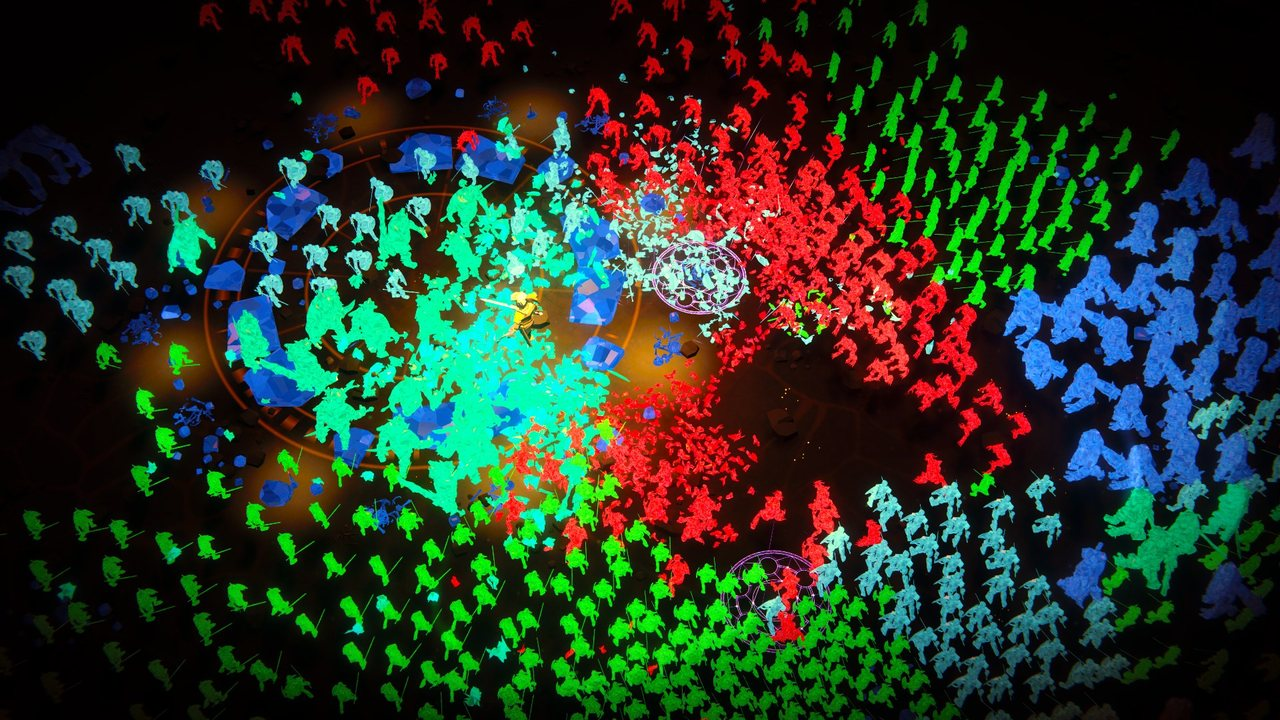
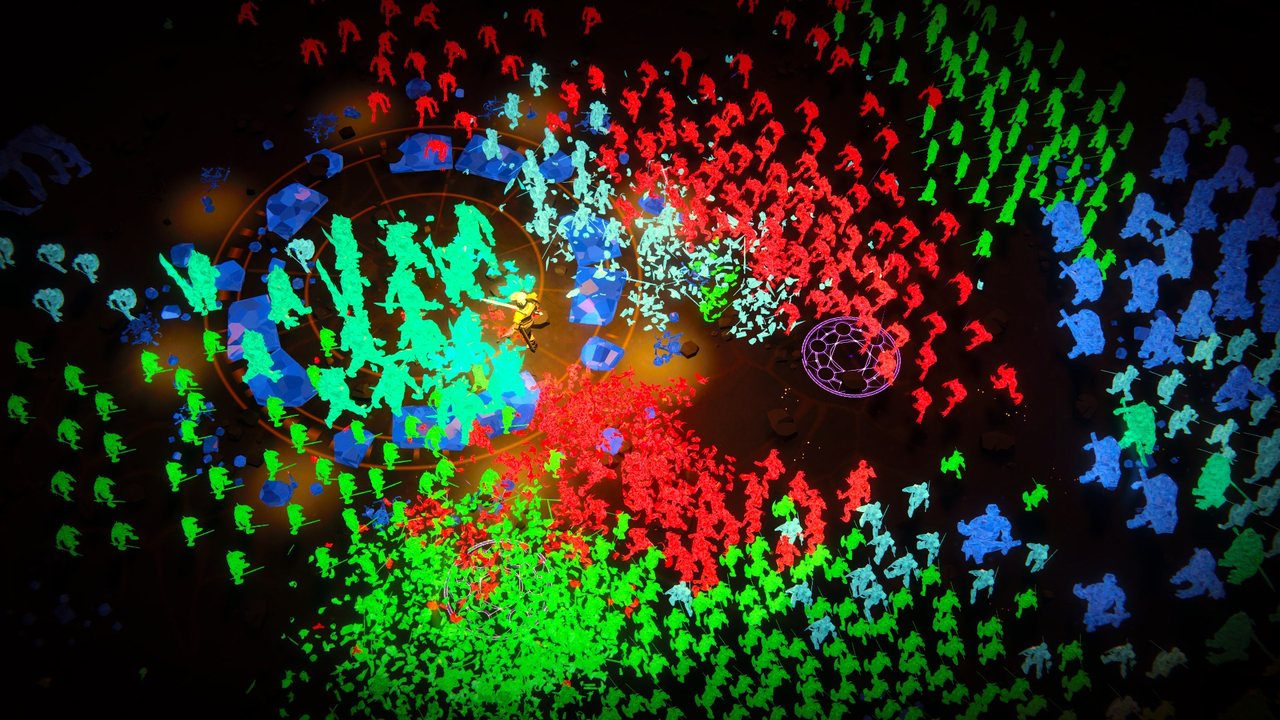
fix(demo3d): the crystal cut passes its checks under Unity's runtime too (shot 3's lava converge on three streams), and the style tune tests take glow as a key (ps-vr7)

diff --git a/demo3d/Assets/Demo3D/Tests/EditMode/MonsterStyleTests.cs b/demo3d/Assets/Demo3D/Tests/EditMode/MonsterStyleTests.cs
@@ -46,7 +46,9 @@ namespace Demo3D.Tests
             Assert.That(tuned.Post.Value.exposure, Is.EqualTo(0.8f));
             Assert.That(tuned.Post.Value.neutral, Is.True);
             Assert.That(tuned.Post.Value.bloom, Is.EqualTo(plain.Post.Value.bloom), "untuned values stay");
-            Assert.Throws<ArgumentException>(() => MonsterStyle.FromArgs(new[] { "--monster-style", "fire", "--style-tune", "glow=2" }));
+            Assert.That(plain.Glow, Is.EqualTo(0f), "no inner glow unless tuned");
+            Assert.That(MonsterStyle.FromArgs(new[] { "--monster-style", "crystal", "--style-tune", "glow=1.5" }).Glow, Is.EqualTo(1.5f));
+            Assert.Throws<ArgumentException>(() => MonsterStyle.FromArgs(new[] { "--monster-style", "fire", "--style-tune", "shine=2" }));
             Assert.Throws<ArgumentException>(() => MonsterStyle.FromArgs(new[] { "--monster-style", "fire", "--style-tune", "gain=x" }));
             Assert.Throws<ArgumentException>(() => MonsterStyle.FromArgs(new[] { "--style-tune", "gain=0.5" }), "baseline has nothing to tune");
         }

diff --git a/demo3d/Assets/Demo3D/Tests/EditMode/StructureStyleTests.cs b/demo3d/Assets/Demo3D/Tests/EditMode/StructureStyleTests.cs
@@ -94,7 +94,8 @@ namespace Demo3D.Tests
             Assert.That(tuned.PostOver(PostLook.Stylized()).Value.exposure, Is.EqualTo(0.4f));
             Assert.That(horde.Gain("demon"), Is.EqualTo(1f), "the horde keeps its values");
             Assert.Throws<ArgumentException>(() => StructureStyle.FromArgs(new[] { "--structure-tune", "gain=0.3" }, horde), "baseline has nothing to tune");
-            Assert.Throws<ArgumentException>(() => StructureStyle.FromArgs(new[] { "--structure-style", "fire", "--structure-tune", "glow=2" }, horde));
+            Assert.That(StructureStyle.FromArgs(new[] { "--structure-style", "crystal", "--structure-tune", "glow=0.6" }, horde).Glow, Is.EqualTo(0.6f));
+            Assert.Throws<ArgumentException>(() => StructureStyle.FromArgs(new[] { "--structure-style", "fire", "--structure-tune", "shine=2" }, horde));
         }
 
         [Test]

diff --git a/demo3d/evidence/trailer/crystal/README.md b/demo3d/evidence/trailer/crystal/README.md
@@ -31,7 +31,7 @@ Release -- trailer --name crystal --checks`):
 shot  environment  on screen / target  swings/s  kills/swing (mean, peak)  hero acted  kite  liveness  blocks  lane
    1  neon                 - / 3           1.21          1.0, 1                 100 %     -         0       -   103
    2  crypt              504 / 520         1.05         55.8, 195               100 %   2.4         0    81 %    88
-   3  lava               436 / 440         1.29         23.6, 70                100 %   2.4         0    79 %    79
+   3  lava               420 / 440         1.29         23.3, 69                100 %   2.4         0    79 %    83
    4  forest             769 / 760         1.05         71.6, 201               100 %   2.3         0    75 %   147
    5  neon               394 / 420         1.29         45.8, 97                100 %   2.5         0    87 %    91
    6  crypt              436 / 450         1.29         42.5, 91                100 %   2.4         0    68 %   107
@@ -51,3 +51,8 @@ Tuning notes:
   south side starved its first bar: the glade there is too small for the
   wave. So the drop's breaks moved to the crypt's courtyard, on the action
   cut's open-field side.
+- Shot 3 (lava) runs three streams, not four (ps-vr7): with four, its last
+  bar thinned to 372 against 440 under Unity's runtime (the EditMode test)
+  while `dotnet test` passed. `still-020.000` is retaken with three; the
+  first capture of the cut (captures/trailer-crystal-cut.mp4, 11:54 on
+  2026-10-31) predates it.

diff --git a/docs/tech-demo-3d/trailer.md b/docs/tech-demo-3d/trailer.md
@@ -1398,7 +1398,7 @@ just trailer --out captures/trailer-crystal-cut.mp4 -- --trailer crystal
 |---|---|---|---|---|---|
 | 1 | 0.000–2.481 | 79–80 | neon | Duel: 3 elites | |
 | 2 | 2.481–14.868 | 81–88 | crypt | Charge | courtyard east-south (81.3), east-north (82.3) |
-| 3 | 14.868–27.255 | 89–96 | lava | Converge, 4 streams | |
+| 3 | 14.868–27.255 | 89–96 | lava | Converge, 3 streams | |
 | 4 | 27.255–39.642 | 97–104 | forest | Vortex | |
 | 5 | 39.642–45.836 | 105–108 | neon | Converge, 4 streams | courtyard west-north (106.1), north-east (108.3) |
 | 6 | 45.836–48.932 | 109–110 | crypt | Vortex | |
@@ -1467,7 +1467,11 @@ name, or an area's part such as `courtyard/east-south` or `ruins-gate/1`.
 
 **Outcome.** Every shot passes every check (`trailer --name crystal
 --checks`, and `TrailerTests.TheCrystalCutPassesTheTrailersChecksAndBreaksItsWalls`),
-and the action cut's checks are unchanged. Stills:
+and the action cut's checks are unchanged. The test must pass under both
+`dotnet test` and Unity's EditMode run (`demo3d test`): their floating point
+differs, so a shot's density can pass on one and fail on the other. Shot 3's
+lava converge is the fragile one: with four streams its last bar thinned to
+372 against 440 under Unity only, so it runs three (ps-vr7). Stills:
 [evidence/trailer/crystal](../../demo3d/evidence/trailer/crystal/README.md).
 
 ## Command Line
